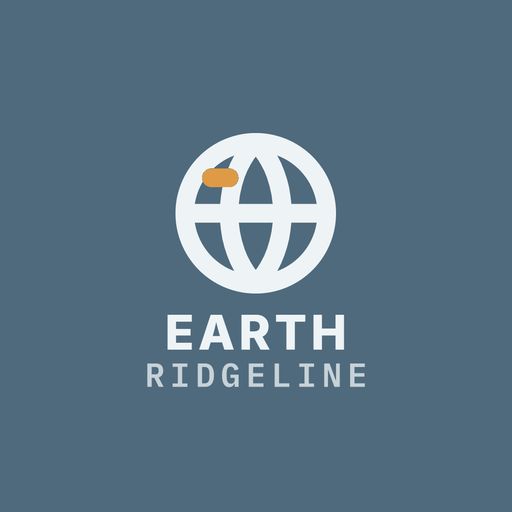
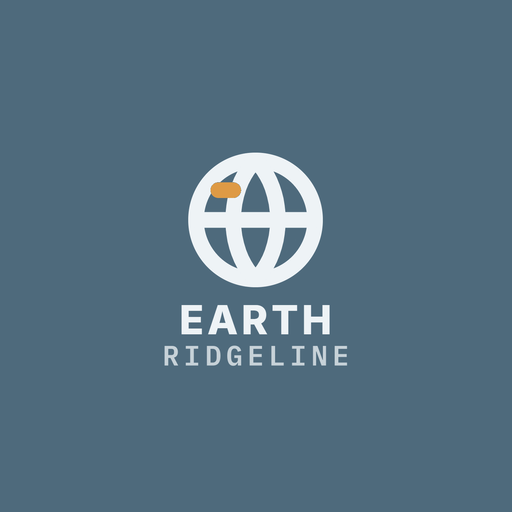
全家族版面修正：窄手機不左右滑／按鈕不擠扁、前面長說明改收合（紅線留外面）、桌面圖示縮進手機安全區
老闆手機回報（2026-10-19）：桌面圖示字被切、窄手機可左右滑、搜尋鈕擠扁、前面說明太長。版面以 360／375／390／412 四種寬度檢查（04_管理工具\版面檢查）；收合只換排版不刪字；maskable 圖示內容縮到半徑 ≤0.28。408 另加介紹文字重點標示（數字粗體、⚠ 句上警示色）。各支原有測試全過，細節見各自更新記錄。

Changed region(s): [[0.2812, 0.25, 0.7188, 0.7812]]

diff --git a/sw.js b/sw.js
@@ -1,4 +1,4 @@
-const C='natscihub-v23';
+const C='natscihub-v24';
 const A=['index.html','manifest.json','ridgeline-ui.css','favicon.svg','icon-192.png','icon-512.png','icon.svg','rl-mark-denali-white.png','rl-mark-denali-navy.png','vendor/round-ui/gs-round.woff2','vendor/fluent-3d/dna.png','vendor/fluent-3d/globe.png','vendor/fluent-3d/microscope.png','vendor/fluent-3d/test_tube.png','vendor/fluent-3d/sparkles.png','vendor/fluent-3d/rocket.png','vendor/fluent-3d/check.png','vendor/fluent-3d/target.png','vendor/fluent-3d/memo.png','vendor/fluent-3d/calendar.png','vendor/fluent-3d/books.png','vendor/fluent-3d/bulb.png'];
 self.addEventListener('install',e=>{e.waitUntil(caches.open(C).then(c=>c.addAll(A).catch(()=>{})))});
 self.addEventListener('activate',e=>{e.waitUntil(caches.keys().then(k=>Promise.all(k.filter(x=>x!==C).map(x=>caches.delete(x)))))});

diff --git a/biology/sw.js b/biology/sw.js
@@ -1,4 +1,4 @@
-const C='biogsatqb-v14';
+const C='biogsatqb-v15';
 const A=['index.html','manifest.json','ridgeline-ui.css','favicon.svg','icon-192.png','icon-512.png','icon-maskable-512.png','icon.svg'];
 self.addEventListener('install',e=>{self.skipWaiting();e.waitUntil(caches.open(C).then(c=>c.addAll(A).catch(()=>{})))});
 self.addEventListener('activate',e=>{e.waitUntil(caches.keys().then(k=>Promise.all(k.filter(x=>x!==C).map(x=>caches.delete(x)))))});

diff --git a/earth/sw.js b/earth/sw.js
@@ -1,4 +1,4 @@
-const C='escgsatqb-v14';
+const C='escgsatqb-v15';
 const A=['index.html','manifest.json','ridgeline-ui.css','favicon.svg','icon-192.png','icon-512.png','icon-maskable-512.png','icon.svg'];
 self.addEventListener('install',e=>{self.skipWaiting();e.waitUntil(caches.open(C).then(c=>c.addAll(A).catch(()=>{})))});
 self.addEventListener('activate',e=>{e.waitUntil(caches.keys().then(k=>Promise.all(k.filter(x=>x!==C).map(x=>caches.delete(x)))))});

diff --git a/advanced-bio/sw.js b/advanced-bio/sw.js
@@ -1,4 +1,4 @@
-const C='fenkeqb-v15';
+const C='fenkeqb-v16';
 const A=['index.html','manifest.json','ridgeline-ui.css','favicon.svg','icon-192.png','icon-512.png','icon-maskable-512.png','icon.svg'];
 self.addEventListener('install',e=>{self.skipWaiting();e.waitUntil(caches.open(C).then(c=>c.addAll(A).catch(()=>{})))});
 self.addEventListener('activate',e=>{e.waitUntil(caches.keys().then(k=>Promise.all(k.filter(x=>x!==C).map(x=>caches.delete(x)))))});

diff --git a/更新記錄.md b/更新記錄.md
@@ -1,5 +1,11 @@
 # 更新記錄
 
+## 2026-10-19 · 手機桌面圖示的字被切：maskable 縮進 Android 安全區（sw natscihub-v23→natscihub-v24、fenkeqb-v15→fenkeqb-v16、biogsatqb-v14→biogsatqb-v15、escgsatqb-v14→escgsatqb-v15；未 commit／未部署）
+
+- 問題：老闆 Android 手機上 408 的安裝圖示 DOLOMITES 被遮罩切成「OLOMITE」。舊規則只保證墨跡在 W3C 安全圈（中心 80% 直徑、半徑 0.40）；但不少安裝路徑會把 maskable 直接當 Android 108dp 前景層，只露中間 72dp，啟動器再套圓形／圓角／水滴，實際放心可見只到半徑約 0.31（Android 安全區 66/108）。
+- 修法：只重產 manifest 指到的 maskable 圖（檔名不變、manifest 路徑不變），整張構圖以中心等比縮小到墨跡最大半徑 ≤ 0.28，背景色延伸滿版；其他尺寸與 any 圖不動。品牌正式檔、v5 母版與產生器（`mask_text.SAFE_R`）同步修正。
+- 本支：`advanced-bio/icon-maskable-512.png` 半徑 0.332→0.279；`biology/icon-maskable-512.png` 半徑 0.332→0.279；`earth/icon-maskable-512.png` 半徑 0.332→0.279；`icon-maskable-512.png` 半徑 0.332→0.279（以圖寬為 1；> 0.333 會被切）。
+
 ## 2026-10-19 · 版面美化「自然探險」（七系列勇者冒險家族語言；總入口 index.html；sw natscihub-v22→v23，**未部署**）
 
 - **為什麼**：UI/UX 評比（`04_管理工具\_docs\App_UIUX評比_2026-10-13\ui_feedback\702.json`）輸掉的理由：三張題庫卡綠實心／藍框／紫框、emoji 各不相同、按鈕實心與框線混用（U2）；綠藍紫三主色並存、頂部綠色色塊太重；桌機左欄（日期）與右欄（題庫）高度、重量不平衡（U4）。老闆選定七系列方向 A「勇者冒險」，各支換自己的主題色；本支＝實驗室青綠。
